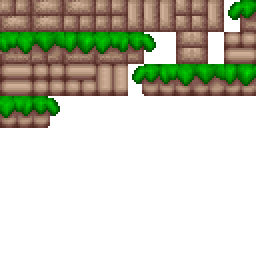
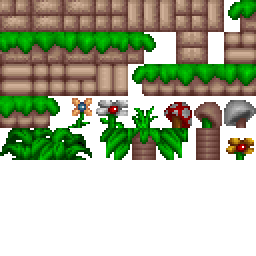
* added extra tiles to improve sample world

Changed region(s): [[0.0, 0.375, 1.0, 0.625]]

diff --git a/src/world/topdownlayer.cpp b/src/world/topdownlayer.cpp
@@ -62,8 +62,8 @@ bool TopDownLayer::prepare(int screenWidth, int screenHeight)
    if ( vb == NULL )
       return false;
 
-   int nX = diffuse.getWidth() / tileWidth;
-   int nY = diffuse.getHeight() / tileHeight;
+   float nX = diffuse.getWidth() / tileWidth;
+   float nY = diffuse.getHeight() / tileHeight;
 
    texTileWidth  = diffuse.getSourceWidth() / nX;
    texTileHeight = diffuse.getSourceHeight() / nY;
@@ -74,7 +74,7 @@ bool TopDownLayer::prepare(int screenWidth, int screenHeight)
 	for (int tc = 0; tc < tileCount; tc++)
    {
 		// calculate starting texture coordinates
-		texcoordLookup[tc+1].x = static_cast<float>((tc % maxTilesOnRow) * texTileWidth);
+		texcoordLookup[tc+1].x = static_cast<float>(tc % maxTilesOnRow) * texTileWidth;
 		texcoordLookup[tc+1].y = floorf ((float)tc / maxTilesOnRow) * texTileHeight;
 	}
 

diff --git a/src/game.cpp b/src/game.cpp
@@ -296,6 +296,9 @@ void Game::initOpenGL()
 	glHint (GL_PERSPECTIVE_CORRECTION_HINT, GL_NICEST);
 	glShadeModel (GL_SMOOTH);
 
+   glTexParameteri(GL_TEXTURE_2D, GL_TEXTURE_WRAP_S, GL_CLAMP);
+   glTexParameteri(GL_TEXTURE_2D, GL_TEXTURE_WRAP_T, GL_CLAMP);
+
 	OpenGL::initialize ();
 }
 
